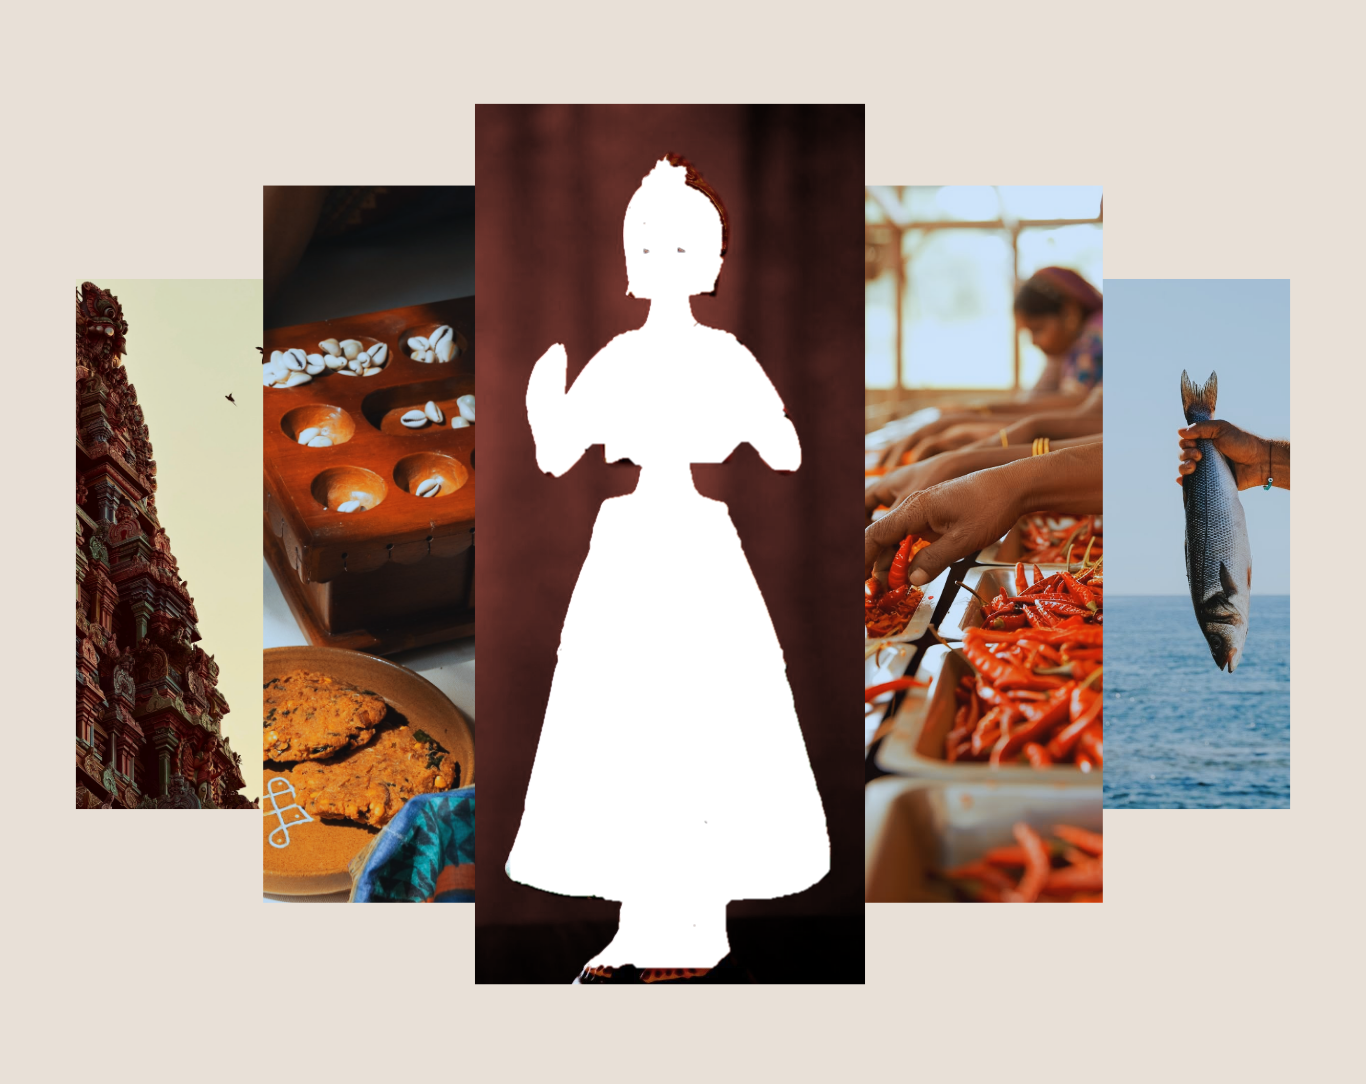
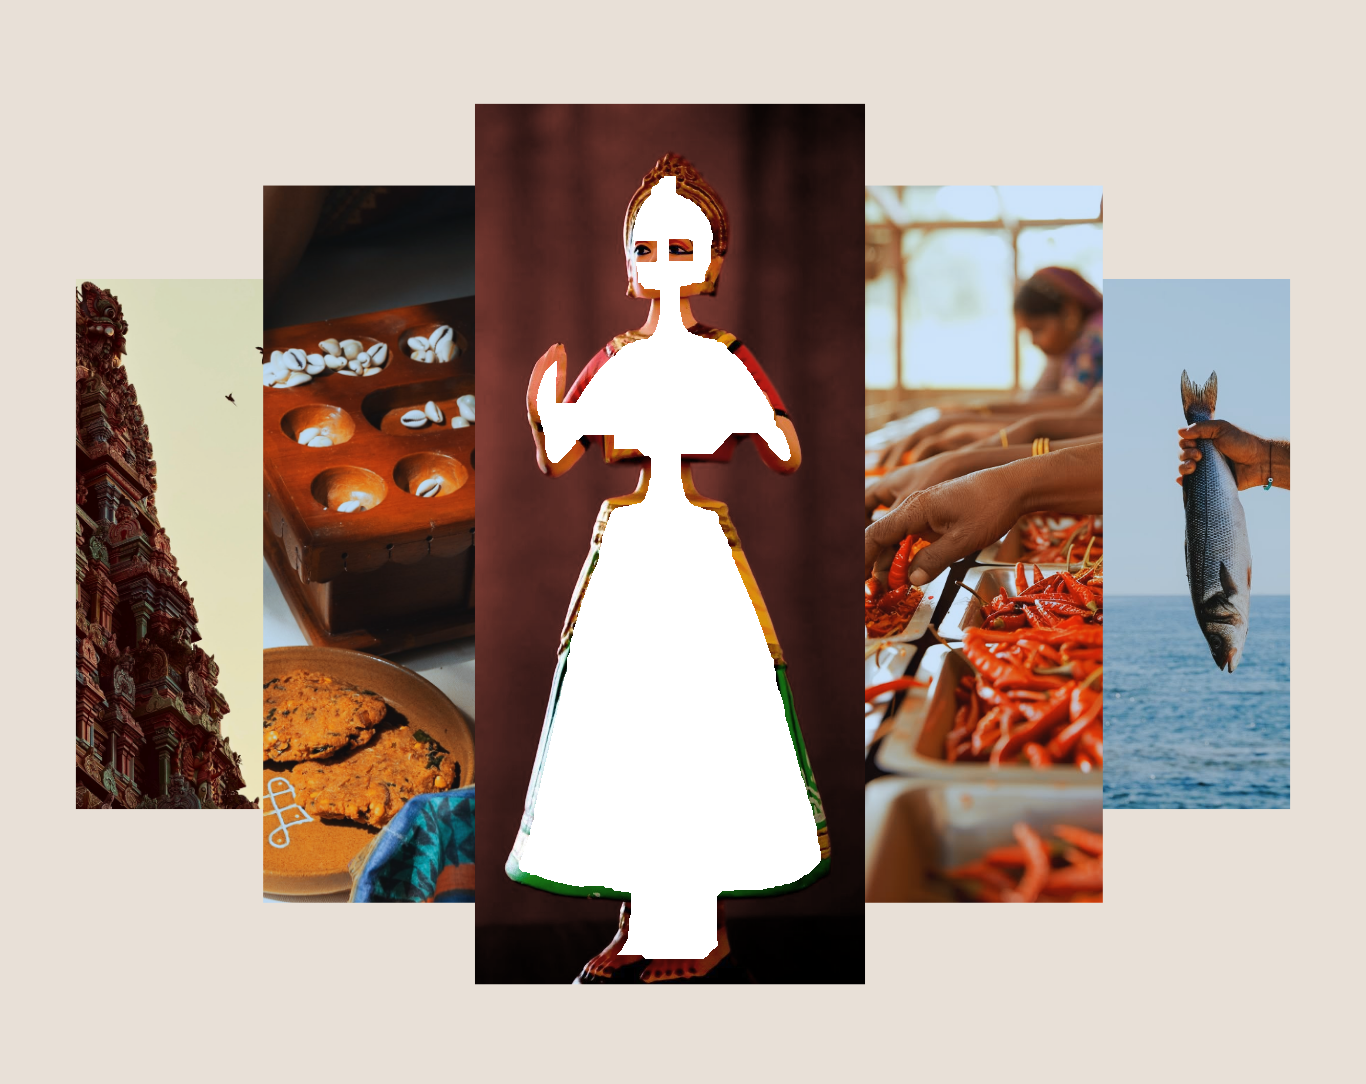
Fix doll wobble seam at hem, apply Seruni accent font to nav/footer
Client feedback: "at the bottom... we can see the cut happening while it
moves." Rotating the whole dancer/doll figure around a bottom pivot swings
the wide skirt hem sideways enough at 2.5° to expose a gap between the
static hole (in the base banner/collage) and the rotating overlay cutout,
even though both derive from the same GrabCut mask — a geometric effect of
rotating a rigid shape, not an alpha-compositing bug (verified: a hard
binary mask edge didn't fix it either). Fix: the hole is now eroded ~28px
(19px on mobile) smaller than the overlay's true silhouette, leaving a
margin of matching original artwork hidden under the overlay's edge, sized
to clear the hem's outer corners through the full rotation range.

Also: header nav links and footer nav/labels ("Quick Links", "Contact Us",
"Follow Us" and their items) now use the Seruni accent font per the site's
own brand rule (accent font is for eyebrows, labels and nav) — they were
still on the body font. Added a `.font-accent` utility class.

diff --git a/src/components/homepage/HomeFooter.tsx b/src/components/homepage/HomeFooter.tsx
@@ -105,13 +105,13 @@ const HomeFooter = () => {
 
           {/* Col 2: Quick Links */}
           <div>
-            <p className="font-body font-semibold text-[11px] uppercase tracking-[0.25em] mb-5" style={{ color: creamFull }}>Quick Links</p>
+            <p className="font-accent font-semibold text-[11px] uppercase tracking-[0.25em] mb-5" style={{ color: creamFull }}>Quick Links</p>
             <div className="flex flex-col gap-[10px]">
               {quickLinks.map((link) => (
                 link.external ? (
-                  <a key={link.name} href={link.href} target="_blank" rel="noopener noreferrer" className="font-body text-[13px] transition-opacity hover:opacity-100" style={{ color: cream }}>{link.name}</a>
+                  <a key={link.name} href={link.href} target="_blank" rel="noopener noreferrer" className="font-accent text-[13px] transition-opacity hover:opacity-100" style={{ color: cream }}>{link.name}</a>
                 ) : (
-                  <Link key={link.name} to={link.href} className="font-body text-[13px] transition-opacity hover:opacity-100" style={{ color: cream }}>{link.name}</Link>
+                  <Link key={link.name} to={link.href} className="font-accent text-[13px] transition-opacity hover:opacity-100" style={{ color: cream }}>{link.name}</Link>
                 )
               ))}
             </div>
@@ -119,7 +119,7 @@ const HomeFooter = () => {
 
           {/* Col 3: Contact Us */}
           <div>
-            <p className="font-body font-semibold text-[11px] uppercase tracking-[0.25em] mb-5" style={{ color: creamFull }}>Contact Us</p>
+            <p className="font-accent font-semibold text-[11px] uppercase tracking-[0.25em] mb-5" style={{ color: creamFull }}>Contact Us</p>
             <address className="not-italic flex flex-col gap-3">
               <p className="font-body text-[13px] leading-[1.7]" style={{ color: cream }}>8 Erb Street West<br />Waterloo, ON N2L 1S7</p>
               <a href="mailto:hello@madrassocial.ca" className="font-body text-[13px] hover:opacity-100 transition-opacity" style={{ color: cream }}>hello@madrassocial.ca</a>
@@ -128,7 +128,7 @@ const HomeFooter = () => {
 
           {/* Col 4: Follow Us */}
           <div className="overflow-hidden">
-            <p className="font-body font-semibold text-[11px] uppercase tracking-[0.25em] mb-5" style={{ color: creamFull }}>Follow Us</p>
+            <p className="font-accent font-semibold text-[11px] uppercase tracking-[0.25em] mb-5" style={{ color: creamFull }}>Follow Us</p>
             <InstagramGrid />
             <a href={INSTAGRAM_URL} target="_blank" rel="noopener noreferrer"
               className="mt-3 inline-flex items-center gap-1.5 font-body text-[12px]"
@@ -155,19 +155,19 @@ const HomeFooter = () => {
         {/* ROW 1: Quick Links + Contact side by side */}
         <div className="grid grid-cols-2 gap-3">
           <div className="text-center">
-            <p className="font-body font-semibold uppercase mb-1" style={{ color: creamFull, fontSize: '10px', letterSpacing: '2px' }}>Quick Links</p>
+            <p className="font-accent font-semibold uppercase mb-1" style={{ color: creamFull, fontSize: '10px', letterSpacing: '2px' }}>Quick Links</p>
             <div className="flex flex-col">
               {quickLinks.map((link) => (
                 link.external ? (
-                  <a key={link.name} href={link.href} target="_blank" rel="noopener noreferrer" className="font-body transition-opacity hover:opacity-100" style={{ color: cream, fontSize: '12px', lineHeight: 1.6 }}>{link.name}</a>
+                  <a key={link.name} href={link.href} target="_blank" rel="noopener noreferrer" className="font-accent transition-opacity hover:opacity-100" style={{ color: cream, fontSize: '12px', lineHeight: 1.6 }}>{link.name}</a>
                 ) : (
-                  <Link key={link.name} to={link.href} className="font-body transition-opacity hover:opacity-100" style={{ color: cream, fontSize: '12px', lineHeight: 1.6 }}>{link.name}</Link>
+                  <Link key={link.name} to={link.href} className="font-accent transition-opacity hover:opacity-100" style={{ color: cream, fontSize: '12px', lineHeight: 1.6 }}>{link.name}</Link>
                 )
               ))}
             </div>
           </div>
           <div className="text-center">
-            <p className="font-body font-semibold uppercase mb-1" style={{ color: creamFull, fontSize: '10px', letterSpacing: '2px' }}>Contact Us</p>
+            <p className="font-accent font-semibold uppercase mb-1" style={{ color: creamFull, fontSize: '10px', letterSpacing: '2px' }}>Contact Us</p>
             <address className="not-italic flex flex-col" style={{ gap: '2px' }}>
               <p className="font-body" style={{ color: cream, fontSize: '12px', lineHeight: 1.5 }}>8 Erb Street West, Waterloo, ON N2L 1S7</p>
               <a href="mailto:hello@madrassocial.ca" className="font-body" style={{ color: cream, fontSize: '12px', lineHeight: 1.6 }}>hello@madrassocial.ca</a>
@@ -177,7 +177,7 @@ const HomeFooter = () => {
 
         {/* ROW 2: Follow Us + Instagram */}
         <div className="text-center">
-          <p className="font-body font-semibold uppercase mb-2" style={{ color: creamFull, fontSize: '10px', letterSpacing: '2px' }}>Follow Us</p>
+          <p className="font-accent font-semibold uppercase mb-2" style={{ color: creamFull, fontSize: '10px', letterSpacing: '2px' }}>Follow Us</p>
           <div className="mx-auto" style={{ maxWidth: '280px', width: '100%' }}>
             <InstagramGrid />
           </div>

diff --git a/src/components/homepage/HomeHero.tsx b/src/components/homepage/HomeHero.tsx
@@ -62,11 +62,23 @@ import ScallopDivider from "./ScallopDivider";
  * exposing it. Fix: `homepage-banner-desktop.png` / `-mobile.png` now have
  * that exact silhouette cut out as a real transparent hole (same GrabCut
  * mask, subtracted from the banner's alpha channel), so the base banner no
- * longer contains her at all — only the animated cutout does. At rest the
- * two are pixel-identical to the original art; wobbling exposes a sliver of
- * the page's own cream background (close to the banner's tone) on one side
- * rather than a second, static dancer. Wobble angle trimmed 3.5°→2.5° at
- * the same time to keep that sliver small.
+ * longer contains her at all — only the animated cutout does.
+ *
+ * Third round, same day — client: "at the bottom... we can see the cut
+ * happening while it moves." The hole was cut using the mask's raw
+ * anti-aliased alpha, which at rest matched the overlay's own soft edge
+ * pixel-for-pixel — but rotating the WHOLE figure around a bottom pivot
+ * swings the wide skirt hem sideways by several pixels at 2.5° (a rigid
+ * rotation moves points far from the pivot the most), enough to expose a
+ * thin gap between the (static) hole and the (rotated) overlay even though
+ * both came from the same mask. Tried making the hole a hard binary cutoff
+ * instead of a soft one — didn't help, the gap is geometric, not a
+ * compositing artefact. Fix: the hole is now eroded ~28px smaller than the
+ * overlay's actual silhouette (`cv2.erode`), leaving a margin of original,
+ * color-matched artwork hidden under the overlay's edge — so a few pixels
+ * of rotation swing land on matching art instead of open hole. Margin size
+ * was picked to clear the worst case (the hem's outer corners, ~270px from
+ * the bottom-center pivot) with room to spare.
  */
 const HomeHero = () => {
   const [mounted, setMounted] = useState(false);
@@ -85,7 +97,7 @@ const HomeHero = () => {
         }
         .doll-wobble {
           animation: doll-wobble 2.4s ease-in-out infinite;
-          transform-origin: 50% 96%;
+          transform-origin: 50% 100%;
         }
         @media (prefers-reduced-motion: reduce) {
           .doll-wobble { animation: none; }

diff --git a/src/pages/AboutUs.tsx b/src/pages/AboutUs.tsx
@@ -248,7 +248,18 @@ const AboutUs = () => {
           silhouette was then cut out of the base collage PNGs as a real
           transparent hole — sized and positioned identically to the cutout,
           so at rest the two are pixel-identical and only the animated
-          cutout is ever visible. */}
+          cutout is ever visible.
+          Third pass, same day — client: "at the bottom... we can see the cut
+          happening while it moves." Rotating the whole figure around a
+          bottom pivot swings the wide skirt hem sideways enough at 2.5° to
+          expose a gap between the (static) hole and the (rotating) overlay,
+          even though both came from the same mask — a geometric side effect
+          of rotating a rigid shape, not a compositing bug (confirmed: a hard
+          binary mask edge didn't fix it either). Fix: the hole is eroded
+          ~28px smaller than the overlay's true silhouette, leaving a margin
+          of matching original artwork hidden under the overlay's edge, sized
+          to clear the hem's outer corners — the point on her farthest from
+          the pivot — through the full rotation. */}
       <style>{`
         @keyframes doll-wobble {
           0%, 100% { transform: rotate(-2.5deg); }
@@ -256,7 +267,7 @@ const AboutUs = () => {
         }
         .doll-wobble {
           animation: doll-wobble 2.4s ease-in-out infinite;
-          transform-origin: 50% 96%;
+          transform-origin: 50% 100%;
         }
         @media (prefers-reduced-motion: reduce) {
           .doll-wobble { animation: none; }

diff --git a/src/components/homepage/HomeNavbar.tsx b/src/components/homepage/HomeNavbar.tsx
@@ -136,7 +136,7 @@ const HomeNavbar = () => {
         <div className="px-6 py-3 flex flex-col gap-0.5">
           {navLinks.map((link) => {
             const isActive = location.pathname === link.href;
-            const linkClassName = "px-3 py-3 text-sm tracking-[0.1em] uppercase font-body font-medium rounded transition-all duration-300 min-h-[44px] flex items-center";
+            const linkClassName = "px-3 py-3 text-sm tracking-[0.1em] uppercase font-accent font-medium rounded transition-all duration-300 min-h-[44px] flex items-center";
             const linkStyle = { color: isActive ? '#1f1b1a' : 'rgba(31,27,26,0.7)' }; // Carbon
             return link.external ? (
               <a

diff --git a/src/index.css b/src/index.css
@@ -184,6 +184,10 @@
     font-family: var(--font-body);
   }
 
+  .font-accent {
+    font-family: var(--font-accent);
+  }
+
   .section-label {
     font-family: var(--font-body);
     font-weight: 500;
@@ -235,7 +239,7 @@
   }
 
   .nav-link {
-    font-family: var(--font-body);
+    font-family: var(--font-accent);
     font-weight: 500;
     font-size: 12px;
     text-transform: uppercase;
